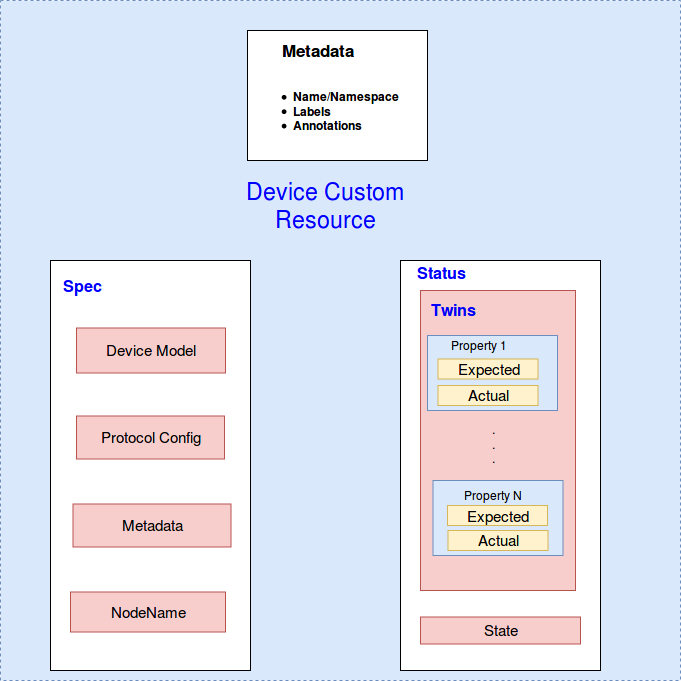
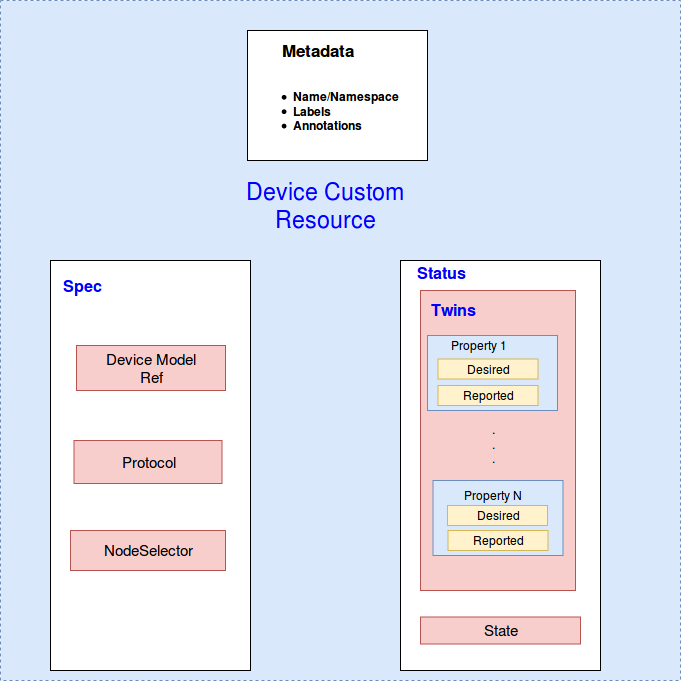
updated apis , added device state, modified yamls

diff --git a/docs/proposals/device-crd.md b/docs/proposals/device-crd.md
@@ -261,13 +261,13 @@ spec:
       isSwap: true
       isRegisterSwap: true
    - propertyName: temperature-enable
-      modbus:
-        register: DiscreteInputRegister
-        offset: 2
-        limit: 1
-        scale: 1
-        isSwap: true
-        isRegisterSwap: true
+     modbus:
+       register: DiscreteInputRegister
+       offset: 2
+       limit: 1
+       scale: 1
+       isSwap: true
+       isRegisterSwap: true
 ```
 
 The device model shown above describes the temperature property of a sensor. Access modes describe whether the property is read-only or can be written to.
@@ -297,10 +297,10 @@ type DeviceSpec struct {
 type ProtocolConfig struct {
 	// Protocol configuration for opc-ua
 	// +optional
-	OpcUA  *ProtocolConfigOpcUA
+	OpcUA  *ProtocolConfigOpcUA  `json:"opcua,omitempty"`
 	// Protocol configuration for modbus
 	// +optional
-	Modbus *ProtocolConfigModbus
+	Modbus *ProtocolConfigModbus `json:"modbus,omitempty"`
 }
 
 type ProtocolConfigOpcUA struct {
@@ -362,12 +362,24 @@ type ProtocolConfigModbusRTU struct {
 	SlaveID    int64  `json:"slaveID,omitempty"`
 }
 
+// DeviceState indicates the current state of the device.
+type DeviceState string
+
+// A device can be in one of the below states.
+const (
+	DeviceStateOnline  DeviceState = "online"
+	DeviceStateOffline DeviceState = "offline"
+	DeviceStateUnknown DeviceState = "unknown"
+)
+
 // DeviceStatus reports the device state and the expected/actual values of twin attributes.
 type DeviceStatus struct {
 	// A list of device twins containing expected/actual states of control properties.
 	// Optional: A passive device won't have control attributes and this list could be empty.
 	// +optional
-	Twins []Twin `json:"twins,omitempty"`
+	Twins []Twin      `json:"twins,omitempty"`
+	// Device state (online, offline, unknown)
+	State DeviceState `json:"state,omitempty"`
 }
 
 // A Twin provides a logical representation of control properties (writable properties in the
@@ -381,15 +393,15 @@ type Twin struct {
 	// Required: The property name for which the desired/reported values are specified.
 	// This property should be present in the device model.
 	PropertyName string       `json:"propertyName,omitempty"`
-	// Required: the expected attribute value for this property.
+	// Required: the desired property value
 	Desired      TwinProperty `json:"desired,omitempty"`
-	// Required: the actual attribute value for this property.
+	// Required: the reported property value.
 	Reported     TwinProperty `json:"reported,omitempty"`
 }
 
 // TwinProperty represents the device property for which an Expected/Actual state can be defined.
 type TwinProperty struct {
-	// Required: The value for this attribute.
+	// Required: The value for this property.
 	Value    string            `json:"value,omitempty"`
 	// Additional metadata like timestamp when the value was reported etc.
 	// +optional
@@ -433,7 +445,7 @@ spec:
   deviceModelRef:
     Name: sensor-tag-model
   protocol:
-    Modbus:
+    modbus:
       rtu:
         serialPort: '1'
         baudRate: 115200
@@ -452,12 +464,12 @@ status:
   state: online
   twins:
     - name: temperature-enable
-      actual:
+      reported:
         metadata:
           timestamp: '1550049403598'
           type: string
         value: OFF
-      expected:
+      desired:
         metadata:
           timestamp: '1550049403598'
           type: string
